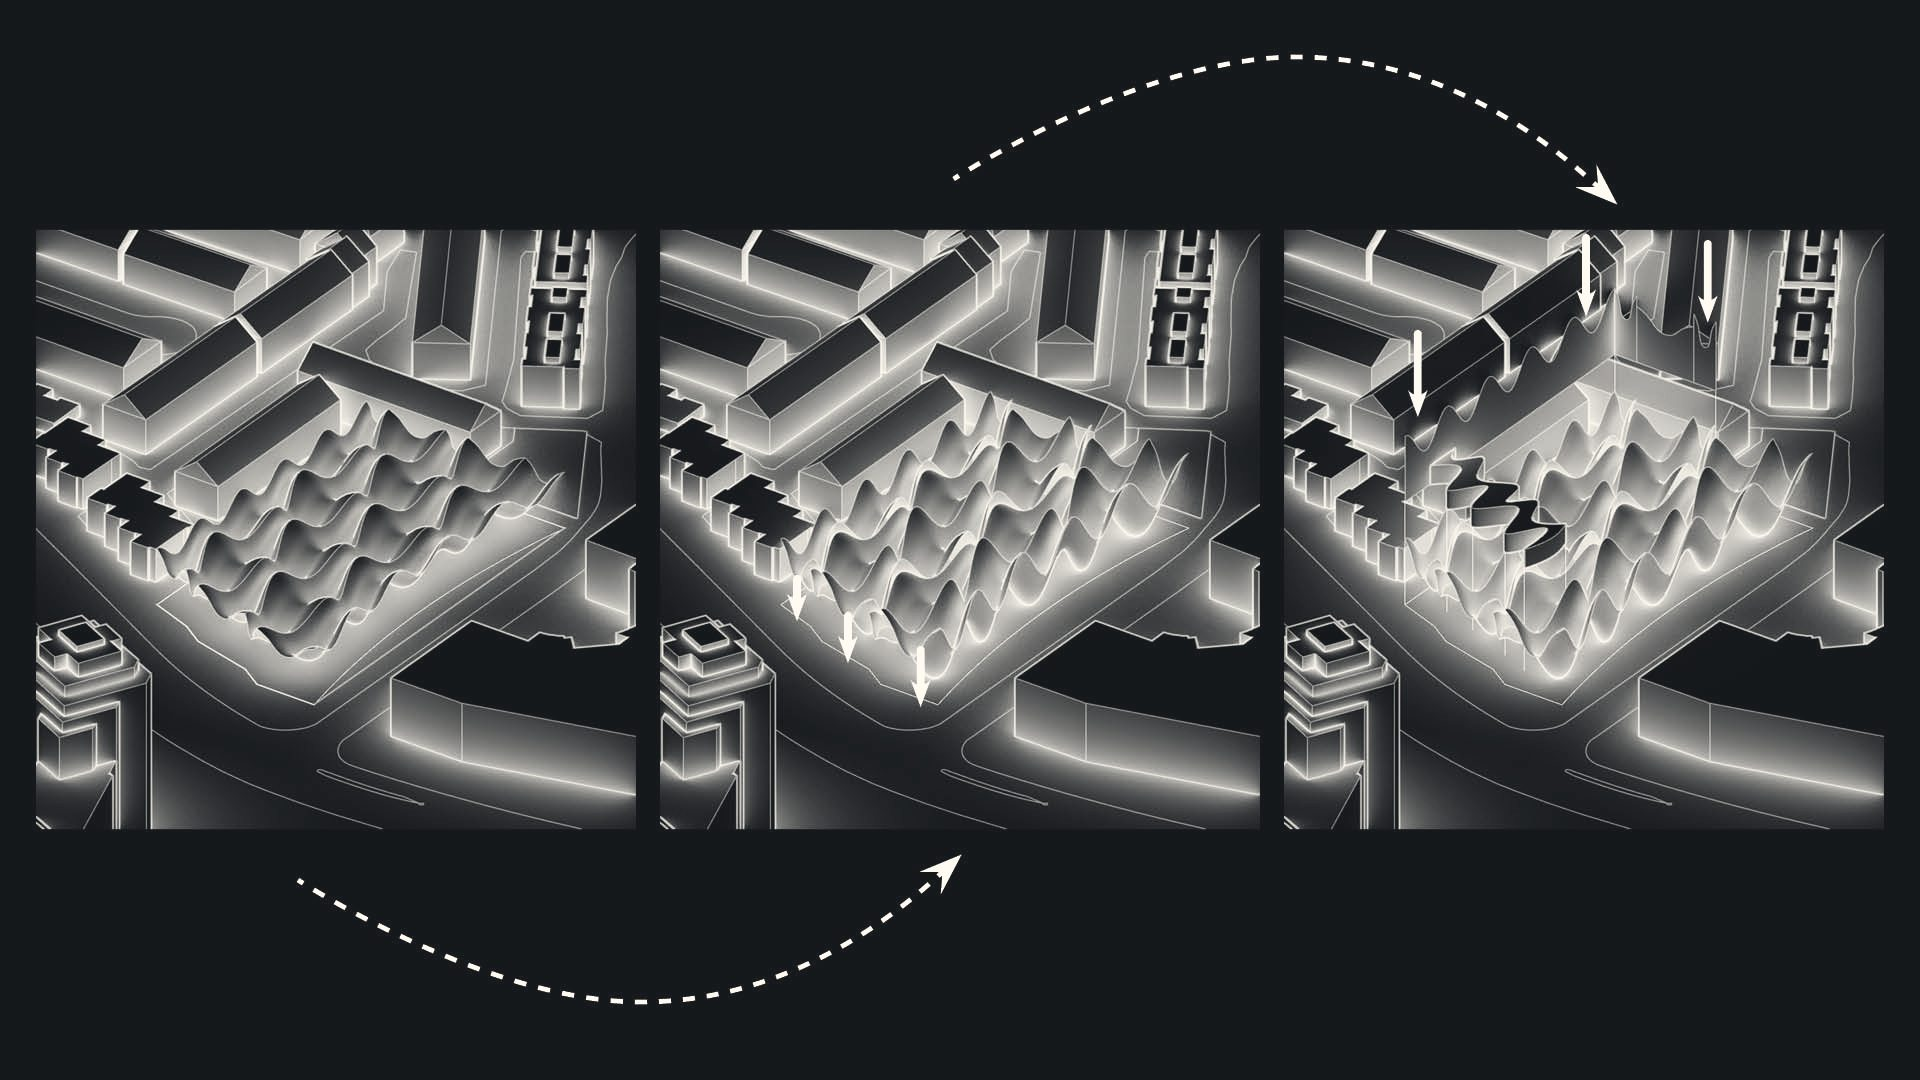
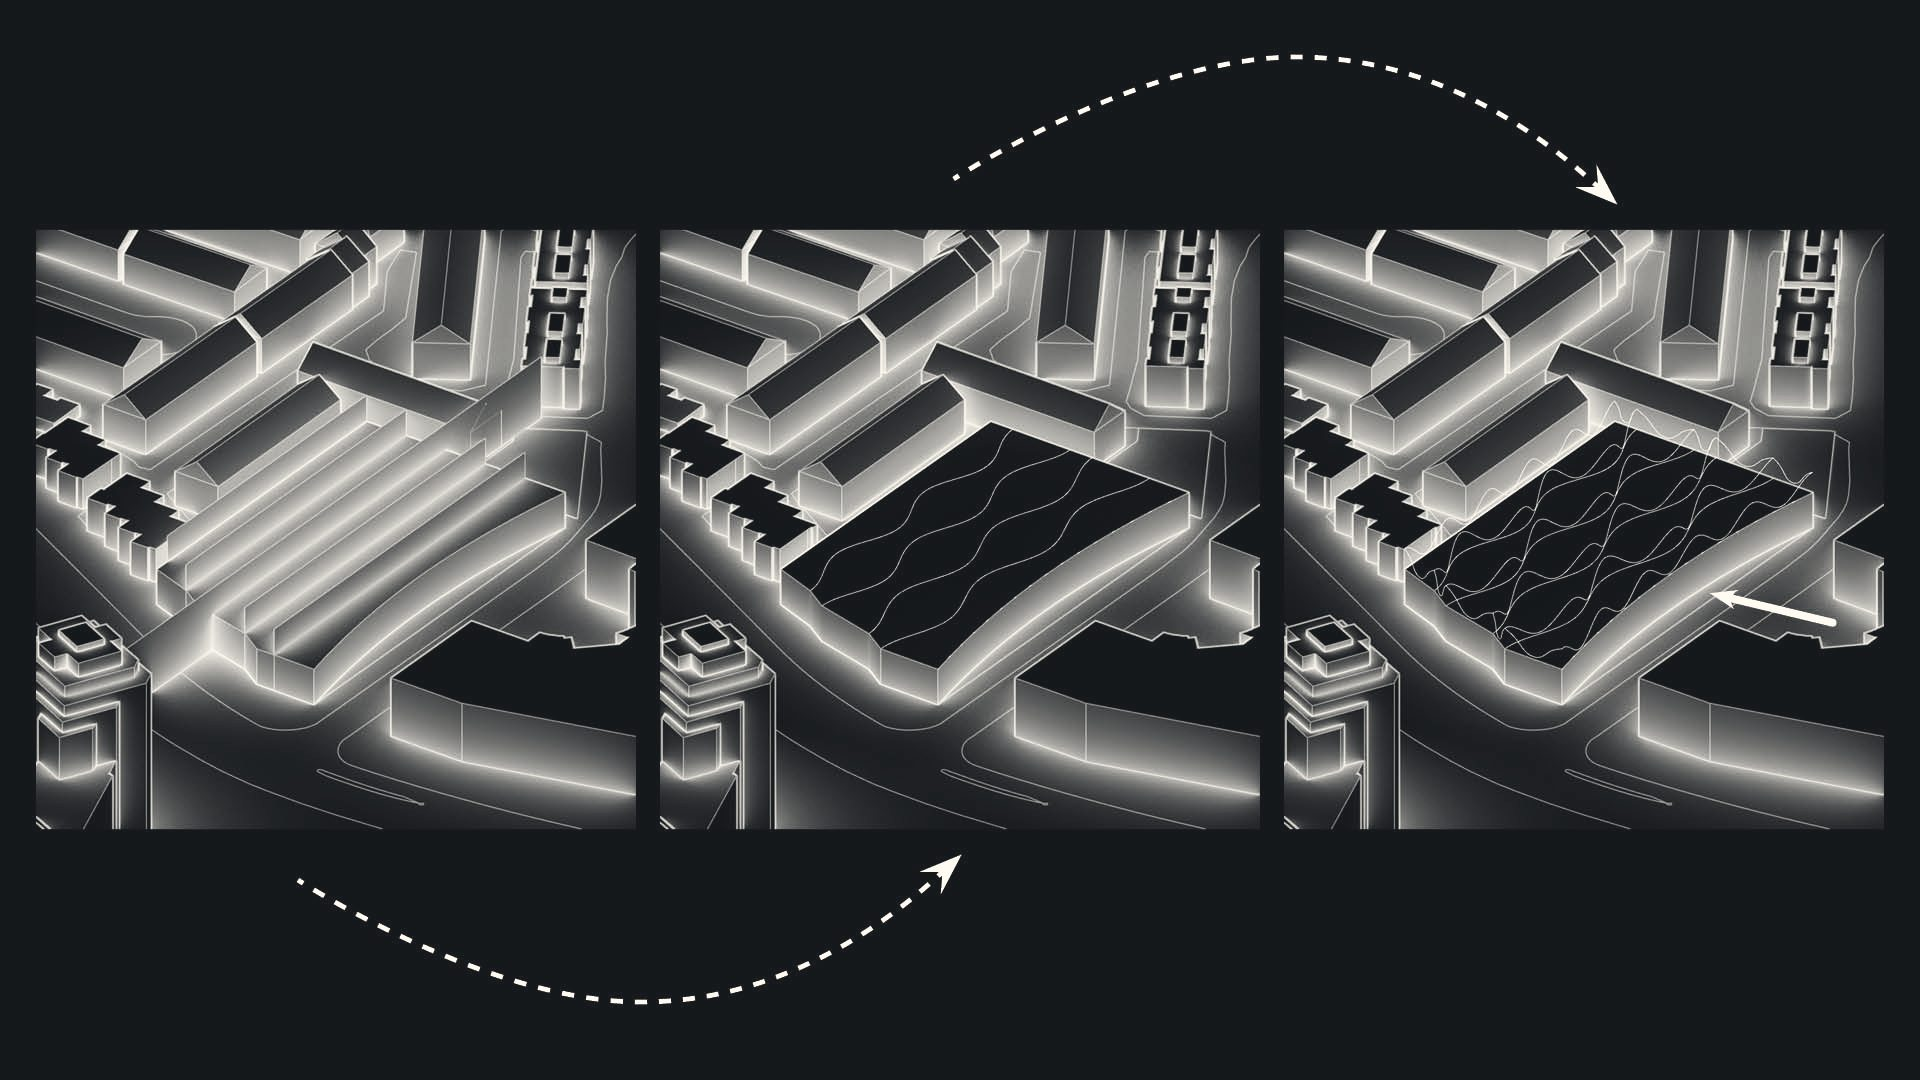
Sinusoidal: corrected image order, labels, arrow-safe crop, strip on mullion
Adds white on-image labels (listed under the group on mobile), per-image
captions in grids, and a group caption for the form exploration diagram.

Changed region(s): [[0.6875, 0.2139, 0.9688, 0.6722], [0.0625, 0.3361, 0.3125, 0.6722], [0.4062, 0.3667, 0.625, 0.6722]]

diff --git a/js/projects.js b/js/projects.js
@@ -12,6 +12,11 @@
                 { layout: "bands", ratio: "4 / 1", focus: "50% 87%", images: [...] }
                                                      each cropped to a thin band, stacked
                 { layout: "grid", images: [...] }    two columns (one on mobile)
+              A group can have a caption, and its images can have their own captions.
+              labels: white text placed on top of an image, at x/y percentages of the
+              (cropped) image; centred on that point unless align: "left". On mobile,
+              centred labels are listed under the group instead (too small to read
+              on the image); left-aligned ones stay on the image.
 */
 
 const CATEGORIES = [
@@ -27,8 +32,8 @@ const PROJECTS = [
     year: "2022",
     location: "Toronto, Canada",
     type: "Commercial",
-    strip: "assets/img/projects/sinusoidal/09.jpg",
-    stripFocus: "50% 50%",
+    strip: "assets/img/projects/sinusoidal/07.jpg",
+    stripFocus: "46% 50%", // centred on the mullion just left of the middle
     summary: [
       "Set in a developing neighborhood in Toronto, Sinusoidal is a market hall: a floor of market stalls beneath a single undulating roof, with a mezzanine café above.",
       "The project is a study in thin-shell structures, aiming for a roof that is striking, efficient, and responsive to its site. It began as a field of modular cells shaped by the site. Layering sine waves across those cells produced a continuous shell, and varying the wave amplitudes from cell to cell let the roof meet the ground in a variety of ways. Stepping the heights of neighboring cells opens bands of clerestory light, and the troughs of the waves collect and store rainwater.",
@@ -37,11 +42,26 @@ const PROJECTS = [
       { src: "assets/img/projects/sinusoidal/site-plan.jpg", caption: "Site plan" },
       {
         layout: "bands", // trimmed to just past the arrows so the two read as one diagram
-        ratio: "2.2 / 1",
-        focus: "50% 50%",
+        ratio: "1.94 / 1",
+        focus: "50% 38%",
+        caption: "Form Exploration",
         images: [
-          { src: "assets/img/projects/sinusoidal/01.jpg" },
-          { src: "assets/img/projects/sinusoidal/02.jpg" },
+          {
+            src: "assets/img/projects/sinusoidal/01.jpg",
+            labels: [
+              { text: "01 Cell Division", x: "17.5%", y: "81.6%" },
+              { text: "02 Horizontal Sine Waves", x: "50%", y: "81.6%" },
+              { text: "03 Vertical Sine Waves", x: "82.5%", y: "81.6%" },
+            ],
+          },
+          {
+            src: "assets/img/projects/sinusoidal/02.jpg",
+            labels: [
+              { text: "04 Lofting Into Waves", x: "17.5%", y: "81.6%" },
+              { text: "05 Warp Waves to Bring Troughs to Ground", x: "50%", y: "81.6%" },
+              { text: "06 Oscillating Mezzanine Added", x: "82.5%", y: "81.6%" },
+            ],
+          },
         ],
       },
       {
@@ -49,18 +69,18 @@ const PROJECTS = [
         ratio: "4 / 1",
         focus: "50% 87%",
         images: [
-          { src: "assets/img/projects/sinusoidal/03.jpg" },
-          { src: "assets/img/projects/sinusoidal/04.jpg" },
-          { src: "assets/img/projects/sinusoidal/05.jpg" },
+          { src: "assets/img/projects/sinusoidal/03.jpg", labels: [{ text: "Elevation", x: "2.5%", y: "92.7%", align: "left" }] },
+          { src: "assets/img/projects/sinusoidal/04.jpg", labels: [{ text: "Section 1", x: "2.5%", y: "92.7%", align: "left" }] },
+          { src: "assets/img/projects/sinusoidal/05.jpg", labels: [{ text: "Section 2", x: "2.5%", y: "92.7%", align: "left" }] },
         ],
       },
       {
         layout: "grid",
         images: [
-          { src: "assets/img/projects/sinusoidal/06.jpg" },
-          { src: "assets/img/projects/sinusoidal/07.jpg" },
-          { src: "assets/img/projects/sinusoidal/08.jpg" },
-          { src: "assets/img/projects/sinusoidal/09.jpg" },
+          { src: "assets/img/projects/sinusoidal/06.jpg", caption: "Oscillating Front Facade" },
+          { src: "assets/img/projects/sinusoidal/07.jpg", caption: "Exterior Sinusoidal Crest" },
+          { src: "assets/img/projects/sinusoidal/08.jpg", caption: "Mezzanine View Into Market Hall" },
+          { src: "assets/img/projects/sinusoidal/09.jpg", caption: "Ground Level of Market Hall" },
         ],
       },
       { src: "assets/img/projects/sinusoidal/10.jpg" },

diff --git a/js/main.js b/js/main.js
@@ -196,8 +196,21 @@
 
     const summary = [].concat(p.summary).map((para) => `<p>${escapeHTML(para)}</p>`).join("");
 
-    const image = (img) => `<img src="${img.src}" alt="${escapeHTML(img.caption || p.title)}" loading="lazy">`;
     const caption = (text) => (text ? `<figcaption>${escapeHTML(text)}</figcaption>` : "");
+    const centred = (l) => l.align !== "left";
+
+    // One image, with optional white labels on top and (inside a group) its own caption
+    const image = (img, inGroup) => {
+      const tag = `<img src="${img.src}" alt="${escapeHTML(img.caption || p.title)}" loading="lazy">`;
+      const labels = (img.labels || [])
+        .map(
+          (l) =>
+            `<span class="img-label${centred(l) ? " img-label--center" : ""}" style="left:${l.x};top:${l.y}">${escapeHTML(l.text)}</span>`
+        )
+        .join("");
+      const ownCaption = inGroup && img.caption ? `<p class="item-caption">${escapeHTML(img.caption)}</p>` : "";
+      return labels || ownCaption ? `<div class="gallery-item">${tag}${labels}${ownCaption}</div>` : tag;
+    };
 
     // An entry is a single image, or a group: { layout: "stack" | "bands" | "grid", images }
     const gallery = p.images
@@ -207,10 +220,15 @@
           block.layout === "bands"
             ? ` style="--band-ratio:${block.ratio || "4 / 1"};--band-focus:${block.focus || "50% 50%"}"`
             : "";
+        // mobile: centred labels are too small on the image, so list them below instead
+        const listed = block.images.flatMap((img) => (img.labels || []).filter(centred));
+        const list = listed.length
+          ? `<ul class="label-list">${listed.map((l) => `<li>${escapeHTML(l.text)}</li>`).join("")}</ul>`
+          : "";
         return `
       <figure class="gallery-${block.layout}"${style}>
-        <div class="gallery-group">${block.images.map(image).join("")}</div>
-        ${caption(block.caption)}
+        <div class="gallery-group">${block.images.map((img) => image(img, true)).join("")}</div>
+        ${list}${caption(block.caption)}
       </figure>`;
       })
       .join("");

diff --git a/css/style.css b/css/style.css
@@ -456,9 +456,59 @@ html.menu-entering .layout > :not(.menu) {
   gap: clamp(8px, 1vw, 14px);
 }
 
+.gallery-item {
+  position: relative;
+}
+
+/* white labels set on a drawing's dark background */
+.img-label {
+  position: absolute;
+  transform: translateY(-50%);
+  color: #fff;
+  font-size: clamp(0.5rem, 0.72vw, 0.68rem);
+  font-weight: 500;
+  letter-spacing: 0.16em;
+  text-transform: uppercase;
+  white-space: nowrap;
+  pointer-events: none;
+}
+
+.img-label--center {
+  transform: translate(-50%, -50%);
+}
+
+.item-caption {
+  margin: 8px 0 0;
+  font-size: 0.72rem;
+  letter-spacing: 0.06em;
+  color: var(--mute);
+}
+
+.label-list {
+  display: none;
+}
+
 @media (max-width: 760px) {
   .gallery-grid .gallery-group {
     grid-template-columns: minmax(0, 1fr);
+  }
+
+  .img-label--center {
+    display: none;
+  }
+
+  .label-list {
+    display: block;
+    margin: 10px 0 0;
+    padding: 0;
+    list-style: none;
+    font-size: 0.72rem;
+    letter-spacing: 0.06em;
+    color: var(--ink);
+  }
+
+  .label-list li + li {
+    margin-top: 2px;
   }
 }
 

diff --git a/project.html b/project.html
@@ -25,7 +25,7 @@
   <link rel="icon" href="assets/img/favicon.svg" type="image/svg+xml">
   <link rel="icon" href="assets/img/favicon-32.png" sizes="32x32" type="image/png">
   <link rel="apple-touch-icon" href="assets/img/apple-touch-icon.png">
-  <link rel="stylesheet" href="css/style.css?v=16">
+  <link rel="stylesheet" href="css/style.css?v=17">
 </head>
 <body data-page="project">
 
@@ -48,7 +48,7 @@
     <article class="project" id="project"></article>
   </main>
 
-  <script src="js/projects.js?v=16"></script>
-  <script src="js/main.js?v=16"></script>
+  <script src="js/projects.js?v=17"></script>
+  <script src="js/main.js?v=17"></script>
 </body>
 </html>

diff --git a/index.html b/index.html
@@ -30,7 +30,7 @@
   <link rel="preconnect" href="https://fonts.googleapis.com">
   <link rel="preconnect" href="https://fonts.gstatic.com" crossorigin>
   <link rel="stylesheet" href="https://fonts.googleapis.com/css2?family=Inter:wght@400;700&display=swap">
-  <link rel="stylesheet" href="css/style.css?v=16">
+  <link rel="stylesheet" href="css/style.css?v=17">
 </head>
 <body data-page="index">
 
@@ -157,7 +157,7 @@
     </div>
   </main>
 
-  <script src="js/projects.js?v=16"></script>
-  <script src="js/main.js?v=16"></script>
+  <script src="js/projects.js?v=17"></script>
+  <script src="js/main.js?v=17"></script>
 </body>
 </html>
